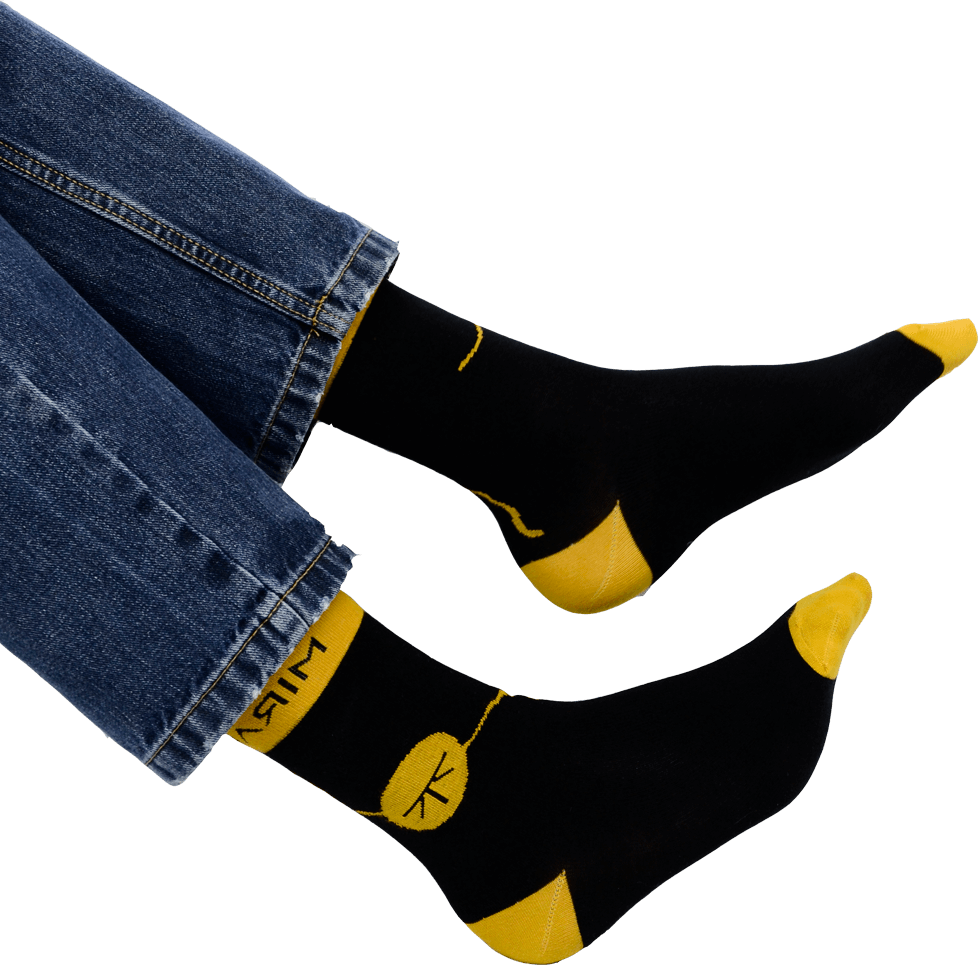
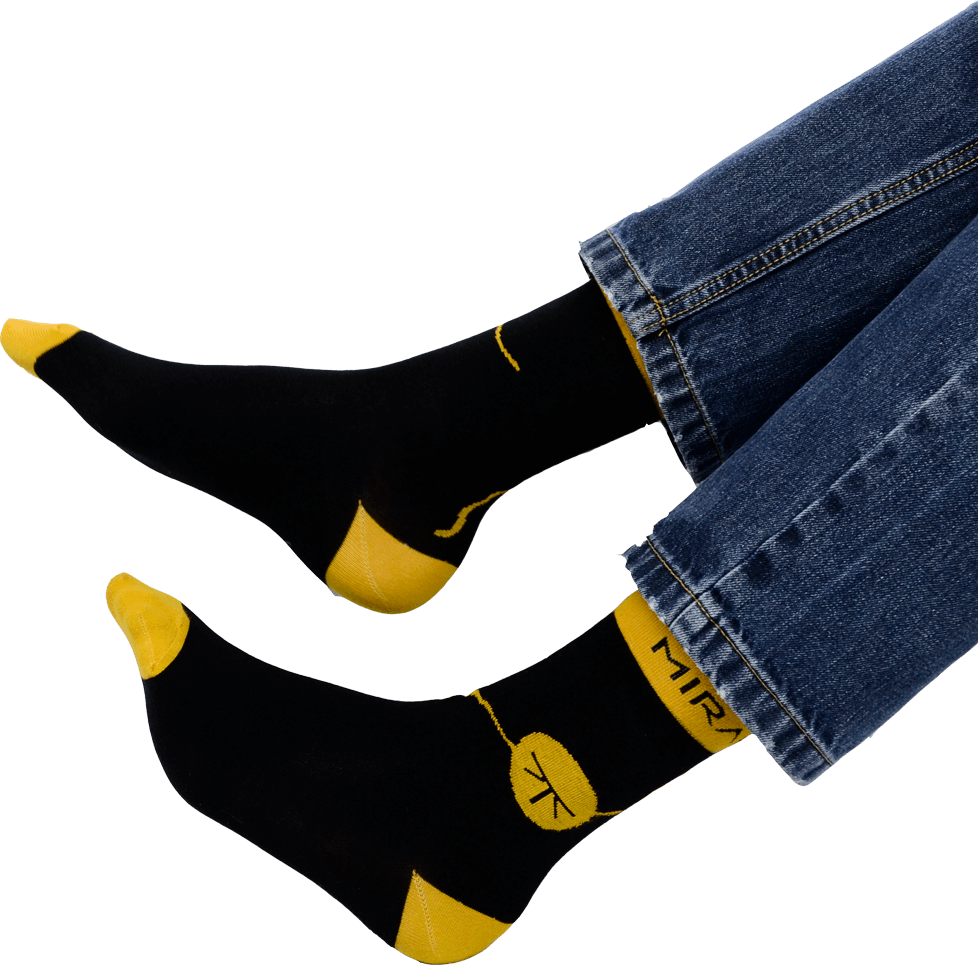
fix mirored photots

diff --git a/index.html b/index.html
@@ -38,9 +38,9 @@
             </div>
         </div>
         <div class="section">
-            <div class="sections-imgs right">
+            <div class="sections-imgs left">
+                <img src="assets/img/colours-nohy.png" class="sleeve" data-aos="fade-right" data-aos-delay="300" />
                 <img src="assets/img/Colours-green.png" class="whole" data-aos="zoom-in" />
-                <img src="assets/img/colours-nohy.png" class="sleeve" data-aos="fade-left" data-aos-delay="300" />
             </div>
             <div class="clip right">
                 <div class="section-description">
@@ -53,9 +53,9 @@
             </div>
         </div>
         <div class="section">
-            <div class="sections-imgs left">
-                <img src="assets/img/fixa-nohy.png" class="sleeve" data-aos="fade-right" data-aos-delay="300" />
+            <div class="sections-imgs right">
                 <img src="assets/img/Fixa.png" class="whole" data-aos="zoom-in" />
+                <img src="assets/img/fixa-nohy.png" class="sleeve" data-aos="fade-left" data-aos-delay="300" />
             </div>
             <div class="clip left">
                 <div class="section-description">
@@ -68,9 +68,9 @@
             </div>
         </div>
         <div class="section ">
-            <div class="sections-imgs right">
+            <div class="sections-imgs left">
+                <img src="assets/img/prago-nohy.png" class="sleeve" data-aos="fade-right" data-aos-delay="300" />
                 <img src="assets/img/Prago 2.png" class="whole" data-aos="zoom-in" />
-                <img src="assets/img/prago-nohy.png" class="sleeve" data-aos="fade-left" data-aos-delay="300" />
             </div>
             <div class="clip right">
                 <div class="section-description">
@@ -83,9 +83,9 @@
             </div>
         </div>
         <div class="section">
-            <div class="sections-imgs left">
-                <img src="assets/img/mirai-nohy.png" class="sleeve" data-aos="fade-right" data-aos-delay="300" />
+            <div class="sections-imgs right">
                 <img src="assets/img/Mirai 1.png" class="whole" data-aos="zoom-in" />
+                <img src="assets/img/mirai-nohy.png" class="sleeve" data-aos="fade-left" data-aos-delay="300" />
             </div>
             <div class="clip left">
                 <div class="section-description">
@@ -99,9 +99,9 @@
             </div>
         </div>
         <div class="section ">
-            <div class="sections-imgs right">
+            <div class="sections-imgs left">
+                <img src="assets/img/dolfy-nohy.png" class="sleeve" data-aos="fade-right" data-aos-delay="300" />
                 <img src="assets/img/Adolfeen 1.png" class="whole" data-aos="zoom-in" />
-                <img src="assets/img/dolfy-nohy.png" class="sleeve" data-aos="fade-left" data-aos-delay="300" />
             </div>
             <div class="clip right">
                 <div class="section-description">
@@ -114,9 +114,9 @@
             </div>
         </div>
         <div class="section">
-            <div class="sections-imgs left">
-                <img src="assets/img/vitek-nohy.png" class="sleeve" data-aos="fade-right" data-aos-delay="300" />
+            <div class="sections-imgs right">
                 <img src="assets/img/vitek1.png" class="whole" data-aos="zoom-in" />
+                <img src="assets/img/vitek-nohy.png" class="sleeve" data-aos="fade-left" data-aos-delay="300" />
             </div>
             <div class="clip left">
                 <div class="section-description">
